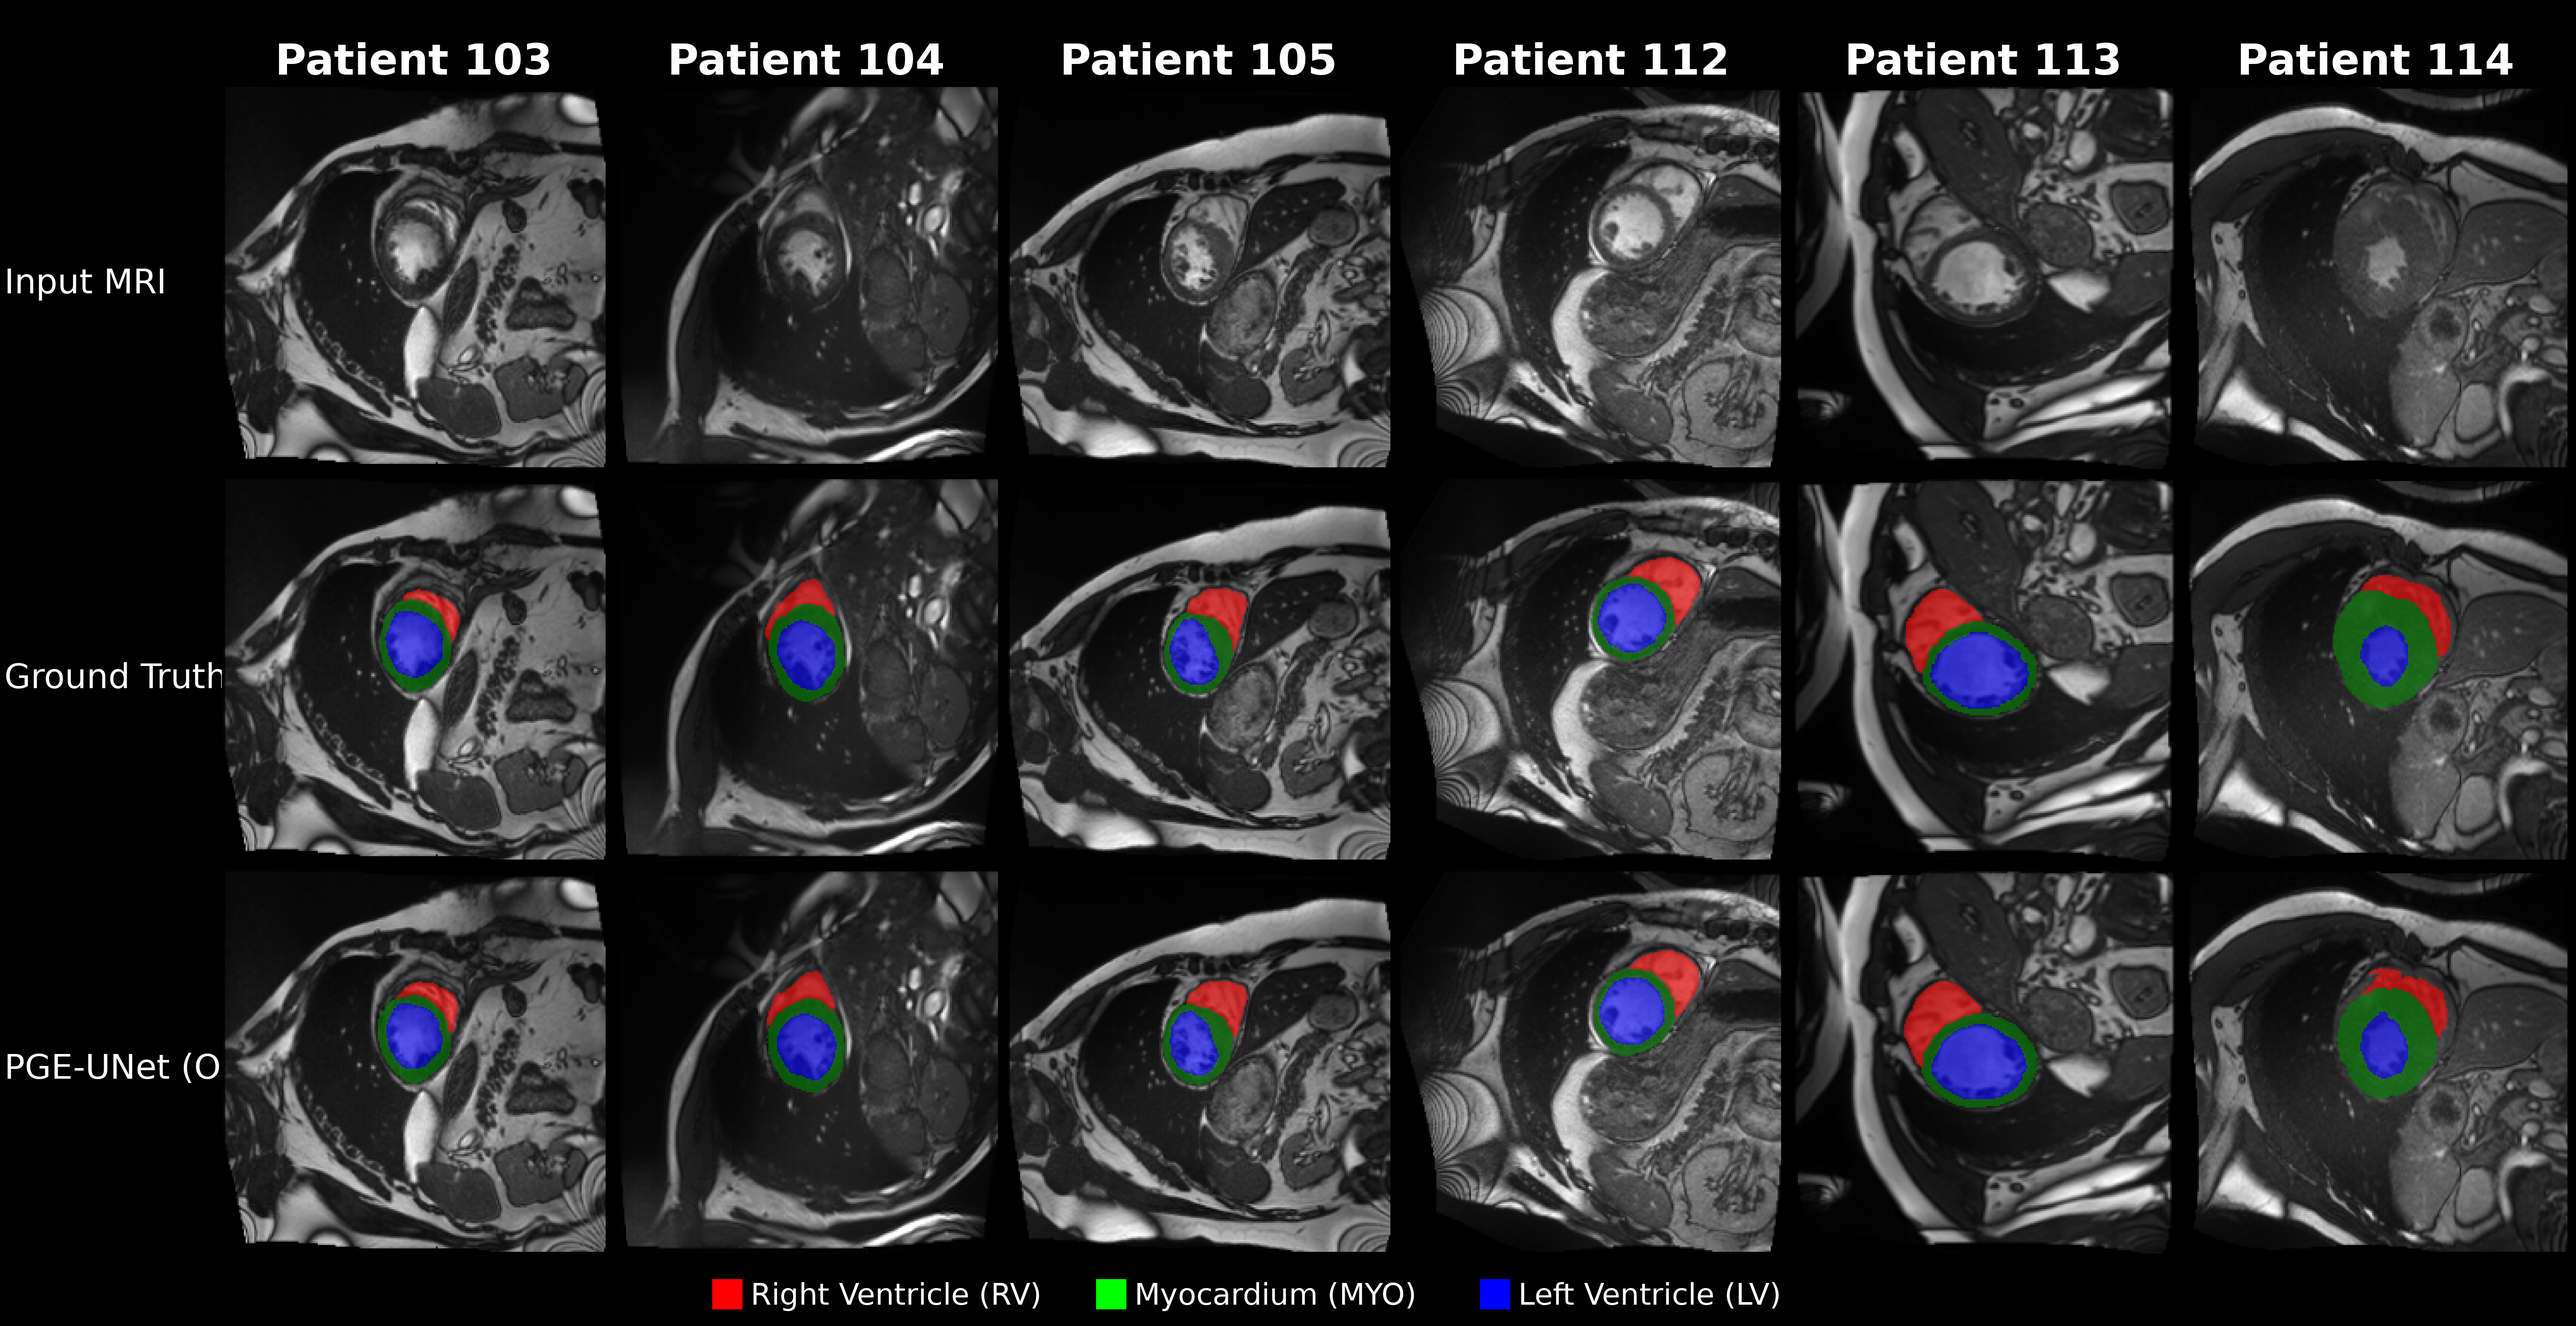
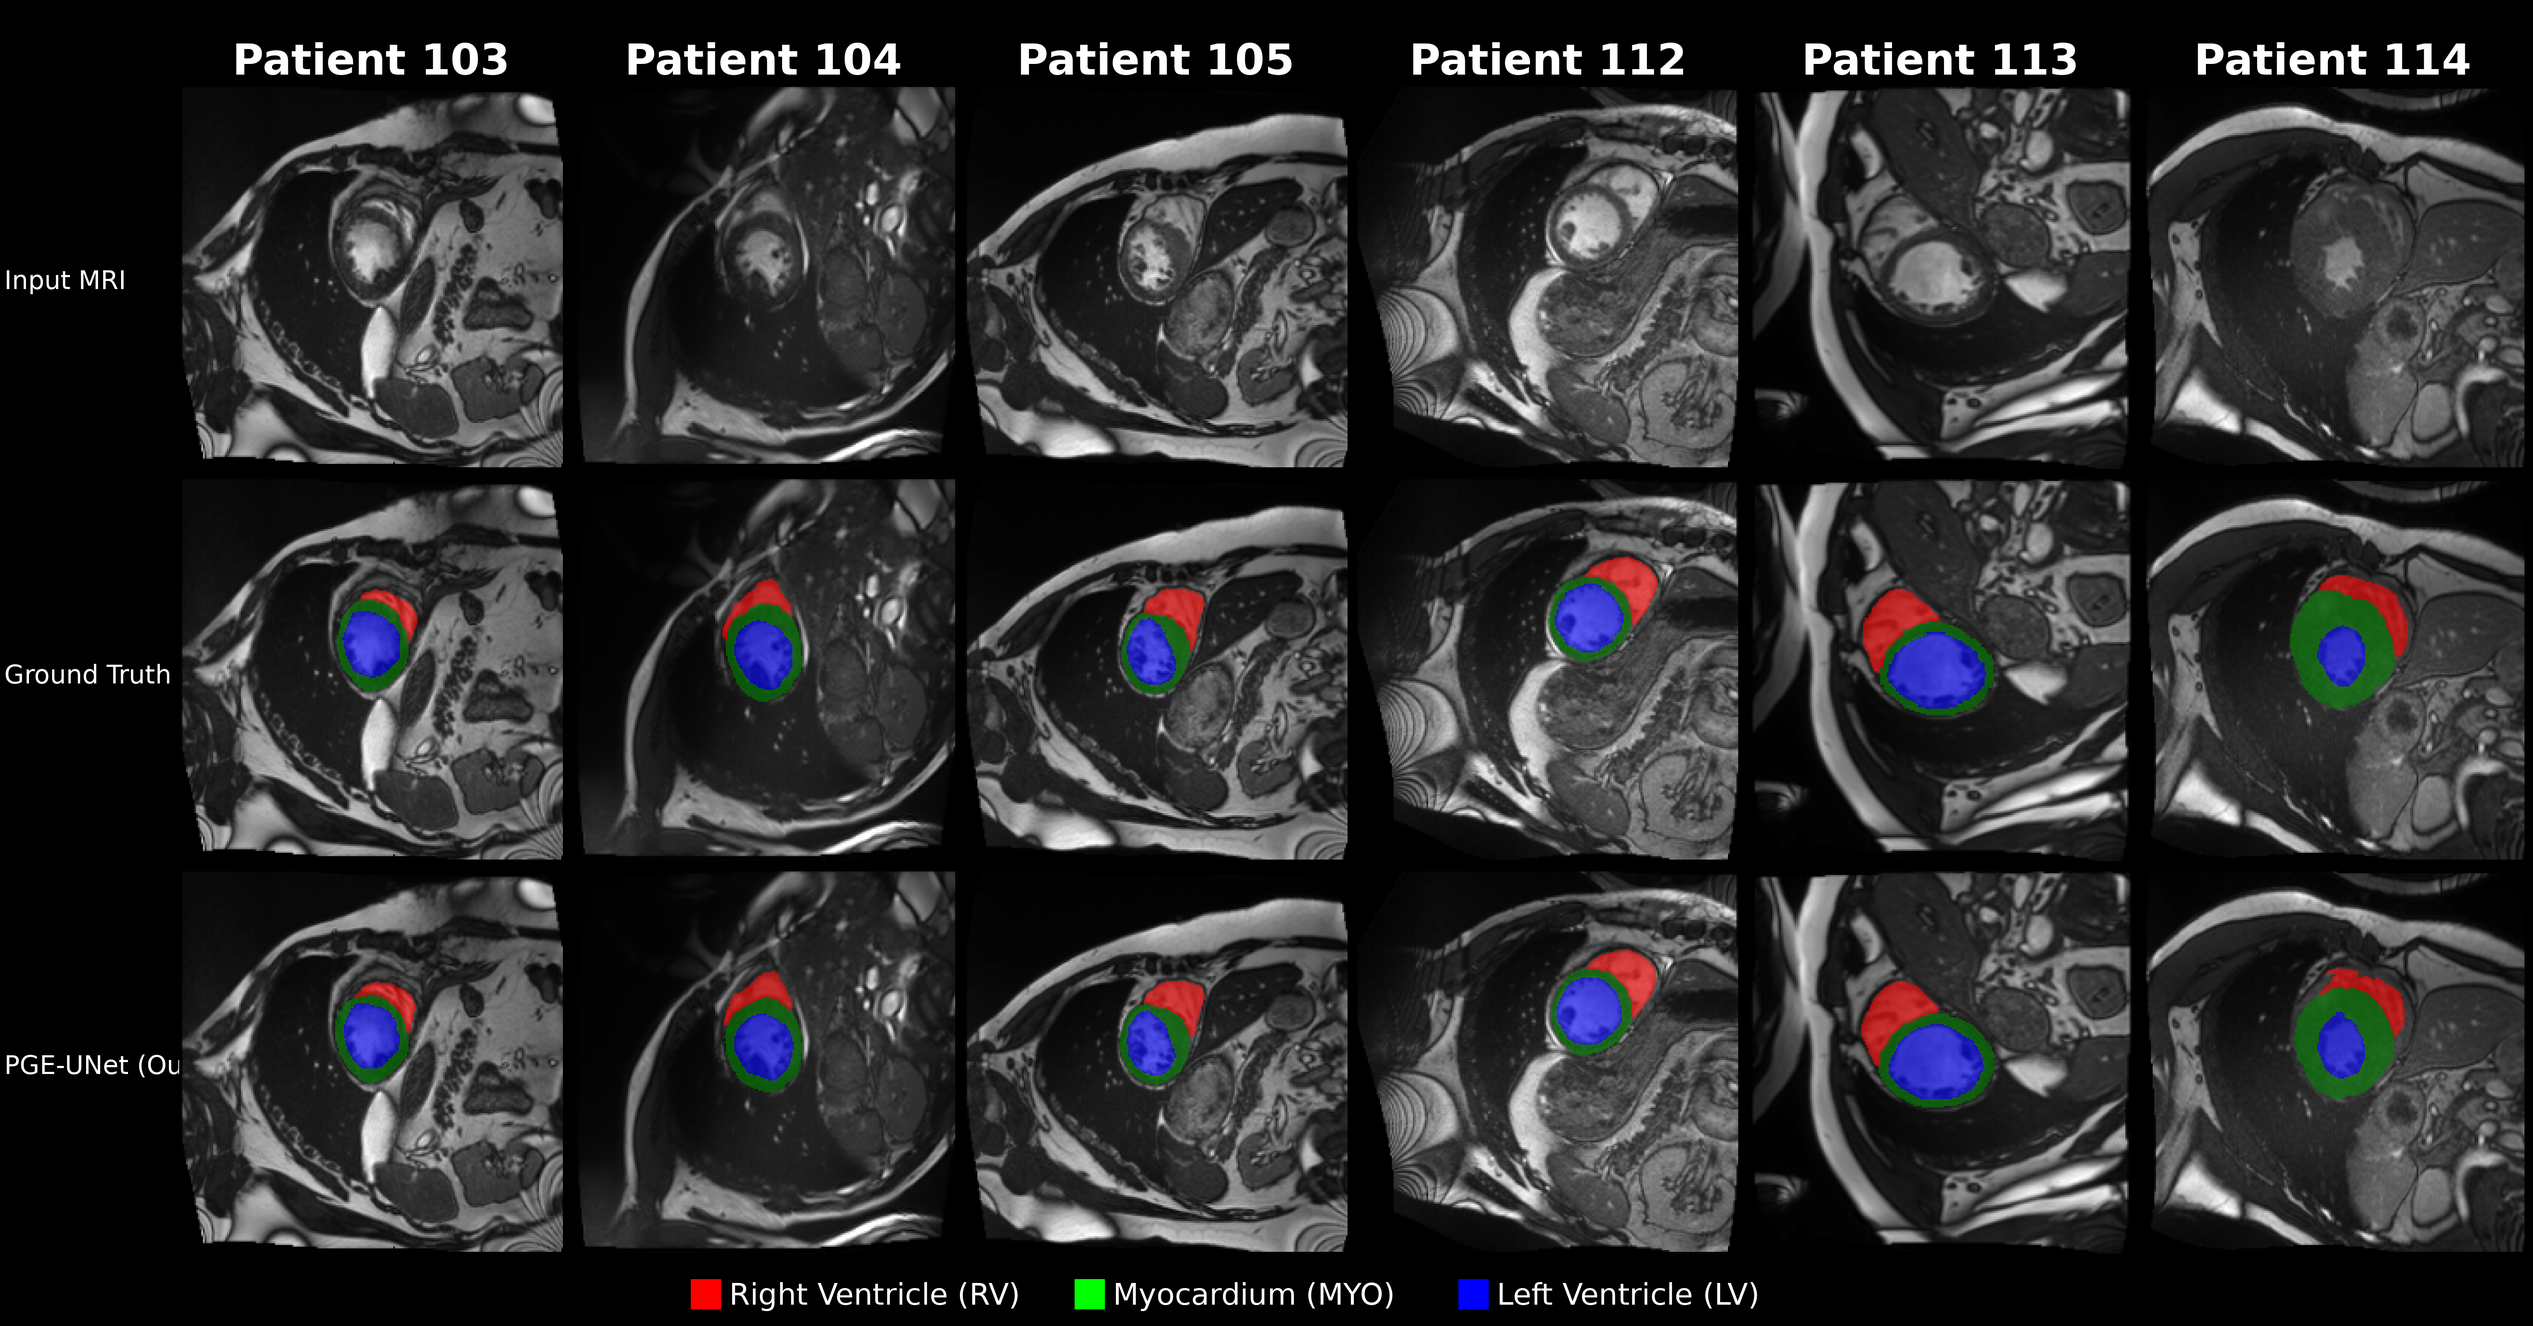
docs: Reduce row label font size in comparison grid - Decrease row label font from 80pt to 60pt per user request - Reduce row label column width slightly - Improve spacing stability

diff --git a/scripts/create_comparison_table.py b/scripts/create_comparison_table.py
@@ -40,12 +40,12 @@ def create_comparison_grid():
     sample_img = Image.open(sample_path)
     img_width, img_height = sample_img.size
     
-    # Grid settings - BALANCED FONTS
-    header_height = 180     # Reduced from 250
-    row_label_width = 500   # Reduced from 800
+    # Grid settings - ADJUSTED ROW FONTS
+    header_height = 180     # Keep header large
+    row_label_width = 400   # Reduced width slightly
     padding = 20
     bg_color = (0, 0, 0)
-    legend_height = 150     # Reduced from 200
+    legend_height = 150
     
     # Calculate total dimensions
     num_cols = len(PATIENTS)
@@ -57,10 +57,10 @@ def create_comparison_grid():
     canvas = Image.new('RGB', (total_width, total_height), color=bg_color)
     draw = ImageDraw.Draw(canvas)
     
-    # Load fonts (BALANCED SIZES)
+    # Load fonts (SMALLER ROW LABELS)
     try:
         header_font = ImageFont.truetype("/usr/share/fonts/truetype/dejavu/DejaVuSans-Bold.ttf", 100)
-        row_font = ImageFont.truetype("/usr/share/fonts/truetype/dejavu/DejaVuSans.ttf", 80)
+        row_font = ImageFont.truetype("/usr/share/fonts/truetype/dejavu/DejaVuSans.ttf", 60)  # Reduced from 80
         legend_font = ImageFont.truetype("/usr/share/fonts/truetype/dejavu/DejaVuSans.ttf", 70)
     except:
         print("Warning: Custom fonts not found, using default (might be small)")
